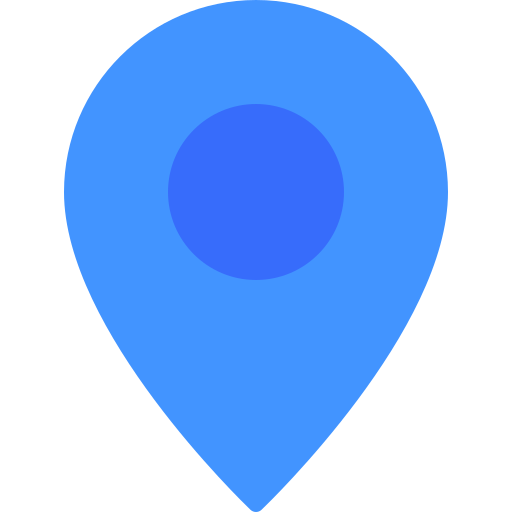
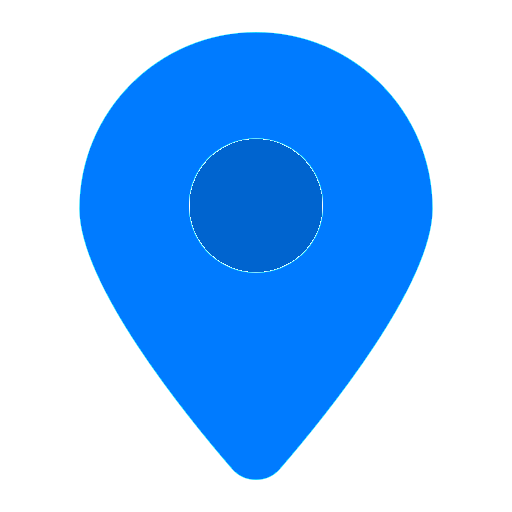
add functionality for reporting if machine is available

diff --git a/app/static/scripts.js b/app/static/scripts.js
@@ -10,7 +10,7 @@ const renderMap = async () => {
     openStreetMap:
       '&copy; <a href="https://www.openstreetmap.org/copyright">OpenStreetMap</a>',
     icons:
-      '<a href="https://www.flaticon.com/free-icons/location" title="location icons">Location icons created by kmg design - Flaticon</a>',
+      '<a href="https://www.flaticon.com/free-icons/2" title="2 icons">2 icons created by hqrloveq - Flaticon</a>',
   };
   let map = L.map("map").setView(defaultLocation, defaultZoom);
   if ("geolocation" in navigator) {
@@ -53,18 +53,21 @@ const showMapMarker = (map, location, locationReports, show = false) => {
     reportFeedbackIndicator.id = "error-indicator";
     reportFeedbackIndicator.style.marginBottom = "0.5rem";
     reportFeedbackIndicator.innerText =
-      "Failed to submit report. Please try again.";
+      "Something went wrong. Please try again later.";
   };
 
-  const reportButtonHandler = async () => {
-    const response = await fetch(`/reports?location_id=${location.id}`, {
-      method: "POST",
-      headers: {
-        "Content-Type": "application/json",
-      },
-    });
+  const reportButtonHandler = async (isAvailable) => {
+    const response = await fetch(
+      `/reports?location_id=${location.id}&is_available=${isAvailable ? 1 : 0}`,
+      {
+        method: "POST",
+        headers: {
+          "Content-Type": "application/json",
+        },
+      }
+    );
     if (response.ok) {
-      reportButton.hidden = true;
+      reportButtonContainer.hidden = true;
       showSuccessIndicator();
       let userReport = await response.json();
       reports.push(userReport);
@@ -101,14 +104,19 @@ const showMapMarker = (map, location, locationReports, show = false) => {
     ).toLocaleString();
     //  = timestamp.toLocaleString();
     const reportText = document.createElement("p");
-    reportText.innerText = `Most recent report: ${localTimestamp}`;
+    console.log(lastReport.is_available);
+    if (lastReport.is_available) {
+      reportText.innerText = `Reported as available: ${localTimestamp}`;
+      customIconUrl = "/static/pin-green.png";
+    } else {
+      reportText.innerText = `Reported as unavailable: ${localTimestamp}`;
+      customIconUrl = "/static/pin-red.png";
+    }
     markerPopup.appendChild(reportText);
     // Show the total number of reports for this location
     const totalReports = document.createElement("p");
     totalReports.innerText = `Total reports within last 24 hours: ${locationReports.length}`;
     markerPopup.appendChild(totalReports);
-
-    customIconUrl = "/static/pin-red.png";
     iconSizeFactor = 1.5;
   } else {
     const noReports = document.createElement("p");
@@ -125,17 +133,30 @@ const showMapMarker = (map, location, locationReports, show = false) => {
   reportFeedbackIndicator.className = "report-feedback-indicator";
   markerPopup.appendChild(reportFeedbackIndicator);
 
-  // Add a button to report the location
-  const reportButton = document.createElement("button");
-  reportButton.className = "report-button";
-  reportButton.innerText = "Report as unavailable";
-  reportButton.onclick = reportButtonHandler;
-  markerPopup.appendChild(reportButton);
+  let reportButtonContainer = document.createElement("div");
+  reportButtonContainer.className = "report-button-container";
+
+  // Add a button to report the location as unavailable
+  const locationAvailableButton = document.createElement("button");
+  locationAvailableButton.className = "report-button-available";
+  locationAvailableButton.innerText = "Report as available";
+  locationAvailableButton.onclick = () => reportButtonHandler(true);
+  reportButtonContainer.appendChild(locationAvailableButton);
+
+  // Add a button to report the location as unavailable
+  const locationUnavailableButton = document.createElement("button");
+  locationUnavailableButton.className = "report-button-unavailable";
+  locationUnavailableButton.innerText = "Report as unavailable";
+  locationUnavailableButton.onclick = () => reportButtonHandler(false);
+  reportButtonContainer.appendChild(locationUnavailableButton);
 
   if (userHasReportedLocation) {
-    reportButton.hidden = true;
+    locationAvailableButton.hidden = true;
+    locationUnavailableButton.hidden = true;
     showSuccessIndicator();
   }
+
+  markerPopup.appendChild(reportButtonContainer);
 
   // Configure the marker icon
   let iconHeight = 35;

diff --git a/app/static/styles.css b/app/static/styles.css
@@ -27,17 +27,30 @@ body {
   background-color: #dc3545;
 }
 
-.report-button {
+.report-button-container {
+  display: flex;
+  flex-direction: column;
+  gap: 0.5rem;
+}
+
+.report-button-unavailable,
+.report-button-available {
   width: 100%;
   padding: 0.5rem;
   border: none;
-  background-color: #007bff;
   color: white;
   font-weight: bold;
   border-radius: 0.5rem;
 }
+.report-button-unavailable {
+  background-color: #007bff;
+}
 
-.report-button:hover {
+.report-button-available {
+  background-color: #28a745;
+}
+
+.report-button-container > button:hover {
   cursor: pointer;
 }
 

diff --git a/app/routers/reports.py b/app/routers/reports.py
@@ -53,6 +53,7 @@ async def get_reports(request: Request, num_days: int = 1):
             "id": report["id"],
             "location_id": report["location_id"],
             "created_at": report["created_at"],
+            "is_available": True if report["is_available"] == 1 else False,
             "is_user_report": report["reporter_id"] == session_id,
         }
         for report in reports
@@ -72,7 +73,7 @@ async def get_locations():
 
 
 @reports_router.post("/reports")
-async def create_report(request: Request, location_id: str):
+async def create_report(request: Request, location_id: str, is_available: int = 1):
     session_id = request.cookies.get("session_id")
     if not session_id or not sessions_service.check_session_id_is_valid(session_id):
         raise HTTPException(
@@ -80,12 +81,17 @@ async def create_report(request: Request, location_id: str):
             detail="Invalid session_id",
         )
     try:
-        user_report = reports_service.create_report(location_id, session_id)
+        user_report = reports_service.create_report(
+            location_id,
+            session_id,
+            True if is_available == 1 else False,
+        )
         user_report_data = {
             "id": user_report["id"],
             "location_id": user_report["location_id"],
             "created_at": user_report["created_at"],
             "is_user_report": True,
+            "is_available": True if is_available == 1 else False,
         }
         return user_report_data
     except ValueError as e:

diff --git a/app/services/reports.py b/app/services/reports.py
@@ -68,6 +68,7 @@ def get_user_reports_in_last_24_hours(reporter_id: str) -> list[dict]:
 def create_report(
     location_id: str,
     reporter_id: str,
+    is_available: bool,
     report_created_at: datetime.datetime = None,
 ) -> dict:
     # Check if the reporter has reported the location in the last 24 hours
@@ -90,6 +91,7 @@ def create_report(
         "location_id": location_id,
         "created_at": report_created_at.timestamp(),
         "reporter_id": reporter_id,
+        "is_available": is_available,
     }
     reports_table.insert(report_details).execute().data[0]
     return report_details
